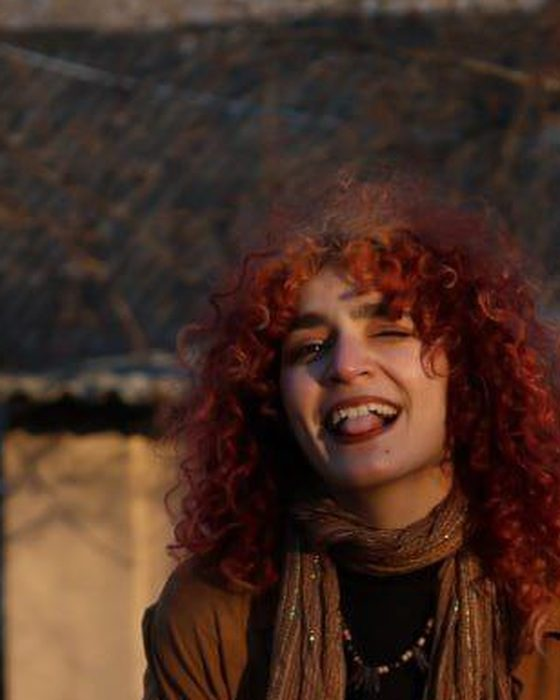
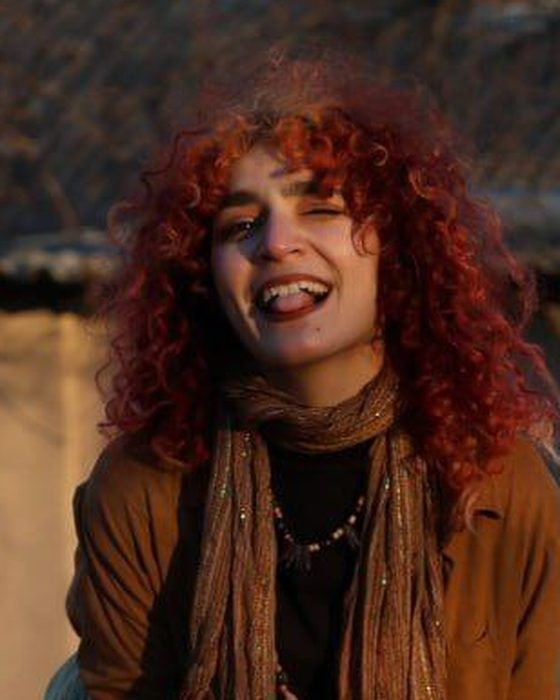
new photos added

diff --git a/tudormirca-site-complet/16voci16zile/date.js b/tudormirca-site-complet/16voci16zile/date.js
@@ -434,7 +434,7 @@ const EXPOZITIE = {
     { nume: "", rol: "", foto: "img/echipa/student-10.jpg?v=2" },
     { nume: "", rol: "", foto: "img/echipa/student-11.jpg?v=2" },
     { nume: "", rol: "", foto: "img/echipa/student-12.jpg?v=2" },
-    { nume: "", rol: "", foto: "img/echipa/student-13.jpg?v=2" },
+    { nume: "", rol: "", foto: "img/echipa/student-13.jpg?v=3" },
     { nume: "", rol: "", foto: "img/echipa/student-14.jpg?v=2" },
     { nume: "", rol: "", foto: "img/echipa/student-15.jpg?v=2" },
     { nume: "", rol: "", foto: "img/echipa/student-16.jpg?v=2" },
@@ -449,6 +449,9 @@ const EXPOZITIE = {
     { nume: "", rol: "", foto: "img/echipa/student-25.jpg?v=2" },
     { nume: "", rol: "", foto: "img/echipa/student-26.jpg?v=2" },
     { nume: "", rol: "", foto: "img/echipa/student-27.jpg?v=2" },
+    { nume: "", rol: "", foto: "img/echipa/student-28.jpg" },
+    { nume: "", rol: "", foto: "img/echipa/student-29.jpg" },
+    { nume: "", rol: "", foto: "img/echipa/student-30.jpg" },
   ],
 
   sprijin: [

diff --git a/tudormirca-site-complet/16voci16zile/index.html b/tudormirca-site-complet/16voci16zile/index.html
@@ -24,7 +24,7 @@
   <link rel="stylesheet" href="https://fonts.googleapis.com/css2?family=Inter:opsz,wght@14..32,400..900&display=swap">
   <link rel="stylesheet" href="stil.css?v=10">
 
-  <script src="date.js?v=11" defer></script>
+  <script src="date.js?v=14" defer></script>
   <script src="oglinda.js?v=3" defer></script>
   <script src="../vendor/lenis.min.js" defer></script>
   <script src="expozitie.js?v=8" defer></script>

diff --git a/tudormirca-site-complet/16voci16zile/alexithymia/index.html b/tudormirca-site-complet/16voci16zile/alexithymia/index.html
@@ -21,7 +21,7 @@
   <link rel="stylesheet" href="https://fonts.googleapis.com/css2?family=Inter:opsz,wght@14..32,400..900&display=swap">
   <link rel="stylesheet" href="../stil.css?v=8">
 
-  <script src="../date.js?v=11" defer></script>
+  <script src="../date.js?v=14" defer></script>
   <script src="../oglinda.js?v=3" defer></script>
   <script src="../voce.js?v=5" defer></script>
 </head>

diff --git a/tudormirca-site-complet/16voci16zile/algophobia/index.html b/tudormirca-site-complet/16voci16zile/algophobia/index.html
@@ -21,7 +21,7 @@
   <link rel="stylesheet" href="https://fonts.googleapis.com/css2?family=Inter:opsz,wght@14..32,400..900&display=swap">
   <link rel="stylesheet" href="../stil.css?v=8">
 
-  <script src="../date.js?v=11" defer></script>
+  <script src="../date.js?v=14" defer></script>
   <script src="../oglinda.js?v=3" defer></script>
   <script src="../voce.js?v=5" defer></script>
 </head>

diff --git a/tudormirca-site-complet/16voci16zile/atelophobia/index.html b/tudormirca-site-complet/16voci16zile/atelophobia/index.html
@@ -21,7 +21,7 @@
   <link rel="stylesheet" href="https://fonts.googleapis.com/css2?family=Inter:opsz,wght@14..32,400..900&display=swap">
   <link rel="stylesheet" href="../stil.css?v=8">
 
-  <script src="../date.js?v=11" defer></script>
+  <script src="../date.js?v=14" defer></script>
   <script src="../oglinda.js?v=3" defer></script>
   <script src="../voce.js?v=5" defer></script>
 </head>

diff --git a/tudormirca-site-complet/16voci16zile/autophobia/index.html b/tudormirca-site-complet/16voci16zile/autophobia/index.html
@@ -21,7 +21,7 @@
   <link rel="stylesheet" href="https://fonts.googleapis.com/css2?family=Inter:opsz,wght@14..32,400..900&display=swap">
   <link rel="stylesheet" href="../stil.css?v=8">
 
-  <script src="../date.js?v=11" defer></script>
+  <script src="../date.js?v=14" defer></script>
   <script src="../oglinda.js?v=3" defer></script>
   <script src="../voce.js?v=5" defer></script>
 </head>

diff --git a/tudormirca-site-complet/16voci16zile/dipsomania/index.html b/tudormirca-site-complet/16voci16zile/dipsomania/index.html
@@ -21,7 +21,7 @@
   <link rel="stylesheet" href="https://fonts.googleapis.com/css2?family=Inter:opsz,wght@14..32,400..900&display=swap">
   <link rel="stylesheet" href="../stil.css?v=8">
 
-  <script src="../date.js?v=11" defer></script>
+  <script src="../date.js?v=14" defer></script>
   <script src="../oglinda.js?v=3" defer></script>
   <script src="../voce.js?v=5" defer></script>
 </head>

diff --git a/tudormirca-site-complet/16voci16zile/eisoptrophobia/index.html b/tudormirca-site-complet/16voci16zile/eisoptrophobia/index.html
@@ -21,7 +21,7 @@
   <link rel="stylesheet" href="https://fonts.googleapis.com/css2?family=Inter:opsz,wght@14..32,400..900&display=swap">
   <link rel="stylesheet" href="../stil.css?v=8">
 
-  <script src="../date.js?v=11" defer></script>
+  <script src="../date.js?v=14" defer></script>
   <script src="../oglinda.js?v=3" defer></script>
   <script src="../voce.js?v=5" defer></script>
 </head>

diff --git a/tudormirca-site-complet/16voci16zile/erotophobia/index.html b/tudormirca-site-complet/16voci16zile/erotophobia/index.html
@@ -21,7 +21,7 @@
   <link rel="stylesheet" href="https://fonts.googleapis.com/css2?family=Inter:opsz,wght@14..32,400..900&display=swap">
   <link rel="stylesheet" href="../stil.css?v=8">
 
-  <script src="../date.js?v=11" defer></script>
+  <script src="../date.js?v=14" defer></script>
   <script src="../oglinda.js?v=3" defer></script>
   <script src="../voce.js?v=5" defer></script>
 </head>

diff --git a/tudormirca-site-complet/16voci16zile/haphephobia/index.html b/tudormirca-site-complet/16voci16zile/haphephobia/index.html
@@ -21,7 +21,7 @@
   <link rel="stylesheet" href="https://fonts.googleapis.com/css2?family=Inter:opsz,wght@14..32,400..900&display=swap">
   <link rel="stylesheet" href="../stil.css?v=8">
 
-  <script src="../date.js?v=11" defer></script>
+  <script src="../date.js?v=14" defer></script>
   <script src="../oglinda.js?v=3" defer></script>
   <script src="../voce.js?v=5" defer></script>
 </head>

diff --git a/tudormirca-site-complet/16voci16zile/lalophobia/index.html b/tudormirca-site-complet/16voci16zile/lalophobia/index.html
@@ -21,7 +21,7 @@
   <link rel="stylesheet" href="https://fonts.googleapis.com/css2?family=Inter:opsz,wght@14..32,400..900&display=swap">
   <link rel="stylesheet" href="../stil.css?v=8">
 
-  <script src="../date.js?v=11" defer></script>
+  <script src="../date.js?v=14" defer></script>
   <script src="../oglinda.js?v=3" defer></script>
   <script src="../voce.js?v=5" defer></script>
 </head>

diff --git a/tudormirca-site-complet/16voci16zile/lypemania/index.html b/tudormirca-site-complet/16voci16zile/lypemania/index.html
@@ -21,7 +21,7 @@
   <link rel="stylesheet" href="https://fonts.googleapis.com/css2?family=Inter:opsz,wght@14..32,400..900&display=swap">
   <link rel="stylesheet" href="../stil.css?v=8">
 
-  <script src="../date.js?v=11" defer></script>
+  <script src="../date.js?v=14" defer></script>
   <script src="../oglinda.js?v=3" defer></script>
   <script src="../voce.js?v=5" defer></script>
 </head>
